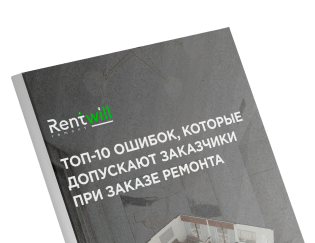
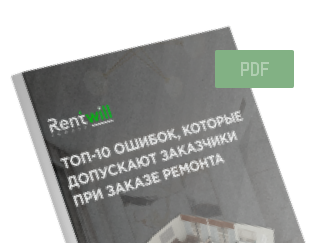
initial

diff --git a/dist/css/style.min.css b/dist/css/style.min.css
@@ -1,1 +1,1 @@
-@font-face{font-family:gothampro;font-display:swap;src:url(../fonts/gothampro-black.woff2) format("woff2"),url(../fonts/gothampro-black.woff) format("woff");font-weight:900;font-style:normal}@font-face{font-family:gothampro;font-display:swap;src:url(../fonts/gothampro-black.woff2) format("woff2"),url(../fonts/gothampro-black.woff) format("woff");font-weight:900;font-style:normal}@font-face{font-family:gothampro;font-display:swap;src:url(../fonts/gothampro-bold.woff2) format("woff2"),url(../fonts/gothampro-bold.woff) format("woff");font-weight:700;font-style:normal}@font-face{font-family:gothampro;font-display:swap;src:url(../fonts/gothampro-light.woff2) format("woff2"),url(../fonts/gothampro-light.woff) format("woff");font-weight:300;font-style:normal}@font-face{font-family:gothampro;font-display:swap;src:url(../fonts/gothampro-light.woff2) format("woff2"),url(../fonts/gothampro-light.woff) format("woff");font-weight:300;font-style:normal}@font-face{font-family:gothampro;font-display:swap;src:url(../fonts/gothampro-medium.woff2) format("woff2"),url(../fonts/gothampro-medium.woff) format("woff");font-weight:500;font-style:normal}@font-face{font-family:gothampro;font-display:swap;src:url(../fonts/gothampro-bold.woff2) format("woff2"),url(../fonts/gothampro-bold.woff) format("woff");font-weight:700;font-style:normal}@font-face{font-family:gothampro;font-display:swap;src:url(../fonts/gothampro.woff2) format("woff2"),url(../fonts/gothampro.woff) format("woff");font-weight:400;font-style:normal}@font-face{font-family:gothampro;font-display:swap;src:url(../fonts/gothampro.woff2) format("woff2"),url(../fonts/gothampro.woff) format("woff");font-weight:400;font-style:normal}@font-face{font-family:gothampro;font-display:swap;src:url(../fonts/gothampro-medium.woff2) format("woff2"),url(../fonts/gothampro-medium.woff) format("woff");font-weight:500;font-style:normal}.container{width:100%;margin-right:auto;margin-left:auto;padding-right:15px;padding-left:15px}.btn,.btn_secondary{background:-webkit-gradient(linear,left top,left bottom,from(#72ebae),to(#39d036));background:-o-linear-gradient(top,#72ebae 0,#39d036 100%);background:linear-gradient(180deg,#72ebae 0,#39d036 100%);font-weight:700;font-size:18px;line-height:17px;text-align:center;color:#fff;text-decoration:none;border-radius:70px;-webkit-box-shadow:0 4px 0 0 #0aa307;box-shadow:0 4px 0 0 #0aa307;-webkit-transition:.2s ease;-o-transition:.2s ease;transition:.2s ease;position:relative;bottom:0;display:-webkit-box;display:-ms-flexbox;display:flex;-webkit-box-align:center;-ms-flex-align:center;align-items:center;-webkit-box-pack:center;-ms-flex-pack:center;justify-content:center;width:-webkit-max-content;width:-moz-max-content;width:max-content;padding:30px 65px}.btn img,.btn_secondary img{margin-right:15px}.btn:active,.btn_secondary:active{-webkit-box-shadow:0 0 0 0 #0aa307;box-shadow:0 0 0 0 #0aa307;bottom:-4px}.btn_secondary{background:-webkit-gradient(linear,left top,left bottom,from(#656565),to(#262626));background:-o-linear-gradient(top,#656565 0,#262626 100%);background:linear-gradient(180deg,#656565 0,#262626 100%);-webkit-box-shadow:0 4px 0 0 #161616;box-shadow:0 4px 0 0 #161616}.header{position:absolute;top:0;left:0;width:100%;height:150px;z-index:50}.header__top{display:-webkit-box;display:-ms-flexbox;display:flex;-webkit-box-align:center;-ms-flex-align:center;align-items:center;-webkit-box-pack:justify;-ms-flex-pack:justify;justify-content:space-between;padding:20px 15px}.header__left{display:-webkit-box;display:-ms-flexbox;display:flex;-webkit-box-align:center;-ms-flex-align:center;align-items:center;-webkit-box-pack:start;-ms-flex-pack:start;justify-content:flex-start}.header__logo{margin-right:23px}.header__desc{font-size:16px;line-height:130%;color:#232323}.header__right{display:-webkit-box;display:-ms-flexbox;display:flex;-webkit-box-align:center;-ms-flex-align:center;align-items:center;-webkit-box-pack:end;-ms-flex-pack:end;justify-content:flex-end}.header__social:first-of-type{margin-right:23px}.header__tel{font-weight:700;font-size:20px;line-height:130%;color:#232323;margin-left:36px}.header__nav{background:#fff}.header__list{display:-webkit-box;display:-ms-flexbox;display:flex;-webkit-box-align:center;-ms-flex-align:center;align-items:center;-webkit-box-pack:justify;-ms-flex-pack:justify;justify-content:space-between;list-style-type:none;padding:20px 15px}.header__link{font-size:14px;line-height:130%;color:#747474;position:relative}.header__link:hover{color:#232323}.header__link:hover::before{opacity:1;visibility:visible;-webkit-transform:translateY(0);-ms-transform:translateY(0);transform:translateY(0)}.header__link::before{content:"";position:absolute;bottom:-4px;border-radius:6px;left:0;background:#232323;width:100%;height:1px;-webkit-transition:.2s cubic-bezier(.68,-.55,.265,1.55);-o-transition:.2s cubic-bezier(.68,-.55,.265,1.55);transition:.2s cubic-bezier(.68,-.55,.265,1.55);opacity:0;visibility:hidden;-webkit-transform:translateY(5px);-ms-transform:translateY(5px);transform:translateY(5px)}.header__link.active{color:#232323}.no-webp .intro{background:url(../img/intro-bg.png) center/cover no-repeat}.intro{min-height:822px;position:relative;color:#232323}.no-webp .intro::after{background:url(../img/clouds.png) left top/cover repeat-x}.intro::after{content:"";position:absolute;bottom:-220px;left:50%;-webkit-transform:translateX(-50%);-ms-transform:translateX(-50%);transform:translateX(-50%);width:100%;height:472px;pointer-events:none}.intro__body{width:100%;display:-webkit-box;display:-ms-flexbox;display:flex;-webkit-box-align:start;-ms-flex-align:start;align-items:flex-start;-webkit-box-pack:justify;-ms-flex-pack:justify;justify-content:space-between;padding-top:165px;min-height:822px}.intro__img{margin-right:-173px}.intro__content{z-index:2}.intro__info{-webkit-box-shadow:0 4px 4px 0 #0000001A;box-shadow:0 4px 4px 0 #0000001A;border-radius:15px;max-width:360px;width:100%;display:-webkit-box;display:-ms-flexbox;display:flex;-webkit-box-align:center;-ms-flex-align:center;align-items:center;-webkit-box-pack:start;-ms-flex-pack:start;justify-content:flex-start;padding:20px 30px;margin-bottom:40px;background:#fff}.intro__info-img{margin-right:15px}.intro__info-p{font-size:16px;line-height:130%;color:#232323}.intro__title{font-weight:700;font-size:38px;line-height:130%;margin-bottom:7px;text-transform:uppercase}.intro__desc{font-size:28px;line-height:130%;margin-bottom:23px}.intro__desc span{color:#3ad037;font-weight:500}.intro__gift{display:-webkit-box;display:-ms-flexbox;display:flex;-webkit-box-align:center;-ms-flex-align:center;align-items:center;-webkit-box-pack:start;-ms-flex-pack:start;justify-content:flex-start;margin-bottom:24px}.intro__gift-img{margin-right:11px}.intro__gift-p{font-size:20px;line-height:130%}.intro__btn{padding:20px 42px}.advantages{margin-bottom:100px}.advantages__body{display:-webkit-box;display:-ms-flexbox;display:flex;-webkit-box-align:center;-ms-flex-align:center;align-items:center;-webkit-box-pack:center;-ms-flex-pack:center;justify-content:center;-webkit-column-gap:50px;-moz-column-gap:50px;column-gap:50px}.advantages__item{height:182px;background:#fff;z-index:2;max-width:278px;-webkit-box-shadow:0 6px 8px 0 #0000001F;box-shadow:0 6px 8px 0 #0000001F;border-radius:15px;display:-webkit-box;display:-ms-flexbox;display:flex;-webkit-box-align:end;-ms-flex-align:end;align-items:flex-end;padding:23px;-webkit-box-pack:center;-ms-flex-pack:center;justify-content:center}.no-webp .advantages__item:first-of-type{background:url(../img/advantages-1.png) 0 0/cover no-repeat}.no-webp .advantages__item:nth-of-type(2){background:url(../img/advantages-2.png) 0 0/cover no-repeat}.no-webp .advantages__item:nth-of-type(3){background:url(../img/advantages-3.png) 0 0/cover no-repeat}.advantages__item p{text-align:center}.no-webp .start{background:url(../img/start.png) center/cover no-repeat}.start{padding:100px 0 78px 0;position:relative}.start__title{margin-bottom:48px;text-align:center;font-weight:700;font-size:34px;line-height:130%;color:#fff}.start__row{display:-webkit-box;display:-ms-flexbox;display:flex;-webkit-box-pack:justify;-ms-flex-pack:justify;justify-content:space-between;-webkit-box-align:center;-ms-flex-align:center;align-items:center}.start__row:not(:last-of-type){margin-bottom:57px}.start__item{max-width:325px;width:100%;padding:23px;background:rgba(26,26,26,.72);-webkit-backdrop-filter:blur(10px);backdrop-filter:blur(10px);position:relative;border-radius:2px;display:-webkit-box;display:-ms-flexbox;display:flex;-webkit-box-align:center;-ms-flex-align:center;align-items:center;-webkit-box-pack:center;-ms-flex-pack:center;justify-content:center}.start__item:nth-of-type(2) .start__item-i{top:auto;right:50%;left:auto;-webkit-transform:translate(50%,0);-ms-transform:translate(50%,0);transform:translate(50%,0);bottom:-34px}.start__item:last-of-type .start__item-i{top:50%;right:auto;left:-30px;-webkit-transform:translate(0,-50%);-ms-transform:translate(0,-50%);transform:translate(0,-50%);bottom:auto}.start__item p{text-align:center;font-size:18px;line-height:140%;color:#fff}.start__item-i{position:absolute;right:-30px;top:50%;-webkit-transform:translateY(-50%);-ms-transform:translateY(-50%);transform:translateY(-50%);background:#1d1d1d;border-radius:50%;width:52px;height:52px;display:-webkit-box;display:-ms-flexbox;display:flex;-webkit-box-align:center;-ms-flex-align:center;align-items:center;-webkit-box-pack:center;-ms-flex-pack:center;justify-content:center}.start__btn{margin-top:85px;margin-left:auto;margin-right:auto;max-width:705px;border-radius:2px}.start__img{position:absolute;bottom:0;left:50%;-webkit-transform:translateX(-50%);-ms-transform:translateX(-50%);transform:translateX(-50%)}.start__scroll{position:absolute;left:50%;-webkit-transform:translateX(-50%);-ms-transform:translateX(-50%);transform:translateX(-50%);bottom:-50px}.cert__body{display:-webkit-box;display:-ms-flexbox;display:flex;-webkit-box-pack:justify;-ms-flex-pack:justify;justify-content:space-between;-webkit-box-align:center;-ms-flex-align:center;align-items:center}.cert__content{padding:80px 0;max-width:412px;width:100%}.cert__btn{width:100%;padding:23px 54px;font-size:18px;line-height:140%}.cert__title{font-weight:700;font-size:34px;line-height:130%;margin-bottom:20px;text-transform:uppercase;color:#8e8e8e}.no-webp .works{background:url(../img/works-bg.png) center/cover no-repeat}.works{padding:100px 0}.works__title{font-weight:700;font-size:34px;line-height:130%;text-align:center;color:#232323;position:relative;isolation:isolate;margin-bottom:15px}.works__title::before{content:attr(data-zag);position:absolute;top:-30px;left:50%;-webkit-transform:translateX(-50%);-ms-transform:translateX(-50%);transform:translateX(-50%);width:100%;height:65px;font-weight:700;font-size:50px;line-height:130%;text-align:center;text-transform:uppercase;color:#e9e9e9;z-index:-1}.works__content{margin-bottom:70px;display:-webkit-box;display:-ms-flexbox;display:flex;-webkit-box-align:stretch;-ms-flex-align:stretch;align-items:stretch;-webkit-box-pack:justify;-ms-flex-pack:justify;justify-content:space-between;gap:20px}.works__item{border-radius:5px;position:relative;height:310px;isolation:isolate;display:-webkit-box;display:-ms-flexbox;display:flex;-webkit-box-orient:vertical;-webkit-box-direction:normal;-ms-flex-direction:column;flex-direction:column;-webkit-box-align:stretch;-ms-flex-align:stretch;align-items:stretch;-webkit-box-pack:end;-ms-flex-pack:end;justify-content:flex-end;width:calc(33.3333% - 10px);-webkit-box-shadow:0 4px 4px 0 #00000017;box-shadow:0 4px 4px 0 #00000017;overflow:hidden}.works__item-img{position:absolute;top:0;z-index:-1;width:100%;-o-object-fit:cover;object-fit:cover;top:0;line-height:0}.works__item-content{background:#fff;border-radius:5px 5px 0 0;padding:30px 34px}.works__item-title{font-size:16px;line-height:140%;color:#232323;margin-bottom:7px}.works__item-p{font-size:14px;line-height:140%;color:#232323}.no-webp .works__row{background:url(../img/works-row.png) center/cover no-repeat}.works__row{border-radius:10px;display:-webkit-box;display:-ms-flexbox;display:flex;-webkit-box-align:center;-ms-flex-align:center;align-items:center;-webkit-box-pack:space-evenly;-ms-flex-pack:space-evenly;justify-content:space-evenly;padding:30px 0}.works__col{display:-webkit-box;display:-ms-flexbox;display:flex;-webkit-box-orient:vertical;-webkit-box-direction:normal;-ms-flex-direction:column;flex-direction:column;-webkit-box-align:center;-ms-flex-align:center;align-items:center}.works__col img{margin-bottom:9px}.works__col p{font-size:16px;line-height:140%;text-align:center;color:#fff}.works__col:nth-of-type(1){max-width:220px}.works__col:nth-of-type(2){max-width:370px}.works__col:nth-of-type(3){max-width:220px}.cam{padding:30px}.cam__intro{display:-webkit-box;display:-ms-flexbox;display:flex;-webkit-box-align:center;-ms-flex-align:center;align-items:center;-webkit-box-pack:justify;-ms-flex-pack:justify;justify-content:space-between;margin-bottom:-50px}.cam__intro-content{max-width:510px}.cam__title{font-weight:700;font-size:34px;line-height:140%;color:#232323;margin-bottom:10px}.cam__p{font-size:20px;line-height:140%;color:#232323}.cam__row{display:-webkit-box;display:-ms-flexbox;display:flex;-webkit-box-pack:justify;-ms-flex-pack:justify;justify-content:space-between;-webkit-box-align:end;-ms-flex-align:end;align-items:flex-end;margin-bottom:50px}.cam__item{width:calc(33.333% - 15px)}.cam__item-img{width:100%;display:-webkit-box;display:-ms-flexbox;display:flex;-webkit-box-align:end;-ms-flex-align:end;align-items:flex-end;-webkit-box-pack:center;-ms-flex-pack:center;justify-content:center}.cam__item-content{background:#fff;-webkit-box-shadow:0 4px 4px rgba(0,0,0,.09);box-shadow:0 4px 4px rgba(0,0,0,.09);border-radius:5px;padding:30px 35px}.cam__item-title{font-weight:500;font-size:16px;line-height:140%;margin-bottom:7px;color:#232323}.cam__item-p{font-size:14px;line-height:140%;color:#232323}.cases{background:#f9f9f9;padding:100px 0}.cases__title{font-weight:700;font-size:34px;line-height:130%;text-align:center;color:#232323;margin-bottom:15px}.cases__row{display:-webkit-box;display:-ms-flexbox;display:flex;-webkit-box-align:stretch;-ms-flex-align:stretch;align-items:stretch;-webkit-box-pack:justify;-ms-flex-pack:justify;justify-content:space-between}.cases__row:not(:last-child){margin-bottom:20px}.cases__item{position:relative;isolation:isolate}.cases__item::before{content:"";position:absolute;bottom:0;left:0;width:100%;height:100%;background:-webkit-gradient(linear,left bottom,left top,from(rgba(58,208,55,.42)),to(rgba(58,208,55,.42)));background:-o-linear-gradient(bottom,rgba(58,208,55,.42),rgba(58,208,55,.42));background:linear-gradient(0deg,rgba(58,208,55,.42),rgba(58,208,55,.42));opacity:0;visibility:hidden;-webkit-transition:.2s ease-out;-o-transition:.2s ease-out;transition:.2s ease-out;z-index:-1}.cases__item_sm{height:243px;width:calc(33.333% - 10px)}.cases__item_bg{width:calc(50% - 10px);height:344px}.cases__item:hover::before{opacity:1;visibility:visible}.cases__item:hover .cases__item-link{opacity:1;visibility:visible}.cases__item-header{background:#232323;width:100%;min-height:64px;z-index:2;display:-webkit-box;display:-ms-flexbox;display:flex;-webkit-box-align:center;-ms-flex-align:center;align-items:center;-webkit-box-pack:start;-ms-flex-pack:start;justify-content:flex-start;padding:20px 40px}.cases__item-header p{font-size:18px;line-height:140%;color:#fff}.cases__item-img{position:absolute;top:0;left:0;width:100%;height:100%;z-index:-2}.cases__item-link{position:absolute;bottom:22px;left:34px;font-weight:700;font-size:20px;line-height:140%;color:#fff;-webkit-transition:.2s ease-out;-o-transition:.2s ease-out;transition:.2s ease-out;display:-webkit-box;display:-ms-flexbox;display:flex;-webkit-box-align:center;-ms-flex-align:center;align-items:center;-webkit-box-pack:start;-ms-flex-pack:start;justify-content:flex-start;opacity:0;visibility:hidden}.cases__item-link svg{margin-left:10px}.footer{background:#232323;padding:50px 0}.footer__body{display:-webkit-box;display:-ms-flexbox;display:flex;-webkit-box-align:center;-ms-flex-align:center;align-items:center;-webkit-box-pack:justify;-ms-flex-pack:justify;justify-content:space-between}.footer__left{display:-webkit-box;display:-ms-flexbox;display:flex;-webkit-box-align:center;-ms-flex-align:center;align-items:center;-webkit-box-pack:start;-ms-flex-pack:start;justify-content:flex-start}.footer__logo{margin-right:28px}.footer__link{font-size:16px;line-height:130%;-webkit-text-decoration-line:underline;text-decoration-line:underline;color:#fff}.footer__right{display:-webkit-box;display:-ms-flexbox;display:flex;-webkit-box-align:center;-ms-flex-align:center;align-items:center;-webkit-box-pack:end;-ms-flex-pack:end;justify-content:flex-end}.footer__social{margin-left:23px}.footer__tel{font-weight:700;font-size:20px;line-height:130%;color:#fff;margin-left:36px}*{margin:0;padding:0;-webkit-box-sizing:border-box;box-sizing:border-box;-webkit-tap-highlight-color:transparent;font-family:gothampro,sans-serif;scroll-behavior:smooth}:active,:focus{outline:0}body,html{height:100%}body{width:100%;overflow-x:hidden}.wrapper{min-height:100%;display:-webkit-box;display:-ms-flexbox;display:flex;-webkit-box-orient:vertical;-webkit-box-direction:normal;-ms-flex-direction:column;flex-direction:column}.wrapper .main{-webkit-box-flex:1;-ms-flex:1 1 auto;flex:1 1 auto}button{background:0 0;border:none;cursor:pointer}a{text-decoration:none}@media (min-width:576px){.container{max-width:540px}}@media (min-width:768px){.container{max-width:720px}}@media (min-width:992px){.container{max-width:960px}}@media (min-width:1200px){.container{max-width:1140px}}@media (min-width:1400px){.container{max-width:1320px}}.webp .intro{background:url(../img/intro-bg.webp) center/cover no-repeat}.webp .intro::after{background:url(../img/clouds.webp) left top/cover repeat-x}.webp .advantages__item:first-of-type{background:url(../img/advantages-1.webp) 0 0/cover no-repeat}.webp .advantages__item:nth-of-type(2){background:url(../img/advantages-2.webp) 0 0/cover no-repeat}.webp .advantages__item:nth-of-type(3){background:url(../img/advantages-3.webp) 0 0/cover no-repeat}.webp .start{background:url(../img/start.webp) center/cover no-repeat}.webp .works{background:url(../img/works-bg.webp) center/cover no-repeat}.webp .works__row{background:url(../img/works-row.webp) center/cover no-repeat}
+@font-face{font-family:gothampro;font-display:swap;src:url(../fonts/gothampro-black.woff2) format("woff2"),url(../fonts/gothampro-black.woff) format("woff");font-weight:900;font-style:normal}@font-face{font-family:gothampro;font-display:swap;src:url(../fonts/gothampro-black.woff2) format("woff2"),url(../fonts/gothampro-black.woff) format("woff");font-weight:900;font-style:normal}@font-face{font-family:gothampro;font-display:swap;src:url(../fonts/gothampro-bold.woff2) format("woff2"),url(../fonts/gothampro-bold.woff) format("woff");font-weight:700;font-style:normal}@font-face{font-family:gothampro;font-display:swap;src:url(../fonts/gothampro-light.woff2) format("woff2"),url(../fonts/gothampro-light.woff) format("woff");font-weight:300;font-style:normal}@font-face{font-family:gothampro;font-display:swap;src:url(../fonts/gothampro-light.woff2) format("woff2"),url(../fonts/gothampro-light.woff) format("woff");font-weight:300;font-style:normal}@font-face{font-family:gothampro;font-display:swap;src:url(../fonts/gothampro-medium.woff2) format("woff2"),url(../fonts/gothampro-medium.woff) format("woff");font-weight:500;font-style:normal}@font-face{font-family:gothampro;font-display:swap;src:url(../fonts/gothampro-bold.woff2) format("woff2"),url(../fonts/gothampro-bold.woff) format("woff");font-weight:700;font-style:normal}@font-face{font-family:gothampro;font-display:swap;src:url(../fonts/gothampro.woff2) format("woff2"),url(../fonts/gothampro.woff) format("woff");font-weight:400;font-style:normal}@font-face{font-family:gothampro;font-display:swap;src:url(../fonts/gothampro.woff2) format("woff2"),url(../fonts/gothampro.woff) format("woff");font-weight:400;font-style:normal}@font-face{font-family:gothampro;font-display:swap;src:url(../fonts/gothampro-medium.woff2) format("woff2"),url(../fonts/gothampro-medium.woff) format("woff");font-weight:500;font-style:normal}.container{width:100%;margin-right:auto;margin-left:auto;padding-right:15px;padding-left:15px}.btn,.btn_secondary{background:-webkit-gradient(linear,left top,left bottom,from(#72ebae),to(#39d036));background:-o-linear-gradient(top,#72ebae 0,#39d036 100%);background:linear-gradient(180deg,#72ebae 0,#39d036 100%);font-weight:700;font-size:18px;line-height:17px;text-align:center;color:#fff;text-decoration:none;border-radius:70px;-webkit-box-shadow:0 4px 0 0 #0aa307;box-shadow:0 4px 0 0 #0aa307;-webkit-transition:.2s ease;-o-transition:.2s ease;transition:.2s ease;position:relative;bottom:0;display:-webkit-box;display:-ms-flexbox;display:flex;-webkit-box-align:center;-ms-flex-align:center;align-items:center;-webkit-box-pack:center;-ms-flex-pack:center;justify-content:center;width:-webkit-max-content;width:-moz-max-content;width:max-content;padding:30px 65px}.btn img,.btn_secondary img{margin-right:15px}.btn:active,.btn_secondary:active{-webkit-box-shadow:0 0 0 0 #0aa307;box-shadow:0 0 0 0 #0aa307;bottom:-4px}.btn_secondary{background:-webkit-gradient(linear,left top,left bottom,from(#656565),to(#262626));background:-o-linear-gradient(top,#656565 0,#262626 100%);background:linear-gradient(180deg,#656565 0,#262626 100%);-webkit-box-shadow:0 4px 0 0 #161616;box-shadow:0 4px 0 0 #161616}.header{position:absolute;top:0;left:0;width:100%;height:150px;z-index:50}.header__top{display:-webkit-box;display:-ms-flexbox;display:flex;-webkit-box-align:center;-ms-flex-align:center;align-items:center;-webkit-box-pack:justify;-ms-flex-pack:justify;justify-content:space-between;padding:20px 15px}.header__left{display:-webkit-box;display:-ms-flexbox;display:flex;-webkit-box-align:center;-ms-flex-align:center;align-items:center;-webkit-box-pack:start;-ms-flex-pack:start;justify-content:flex-start}.header__logo{margin-right:23px}.header__desc{font-size:16px;line-height:130%;color:#232323}.header__right{display:-webkit-box;display:-ms-flexbox;display:flex;-webkit-box-align:center;-ms-flex-align:center;align-items:center;-webkit-box-pack:end;-ms-flex-pack:end;justify-content:flex-end}.header__social:first-of-type{margin-right:23px}.header__tel{font-weight:700;font-size:20px;line-height:130%;color:#232323;margin-left:36px}.header__nav{background:#fff}.header__list{display:-webkit-box;display:-ms-flexbox;display:flex;-webkit-box-align:center;-ms-flex-align:center;align-items:center;-webkit-box-pack:justify;-ms-flex-pack:justify;justify-content:space-between;list-style-type:none;padding:20px 15px}.header__link{font-size:14px;line-height:130%;color:#747474;position:relative}.header__link:hover{color:#232323}.header__link:hover::before{opacity:1;visibility:visible;-webkit-transform:translateY(0);-ms-transform:translateY(0);transform:translateY(0)}.header__link::before{content:"";position:absolute;bottom:-4px;border-radius:6px;left:0;background:#232323;width:100%;height:1px;-webkit-transition:.2s cubic-bezier(.68,-.55,.265,1.55);-o-transition:.2s cubic-bezier(.68,-.55,.265,1.55);transition:.2s cubic-bezier(.68,-.55,.265,1.55);opacity:0;visibility:hidden;-webkit-transform:translateY(5px);-ms-transform:translateY(5px);transform:translateY(5px)}.header__link.active{color:#232323}.no-webp .intro{background:url(../img/intro-bg.png) center/cover no-repeat}.intro{min-height:822px;position:relative;color:#232323}.no-webp .intro::after{background:url(../img/clouds.png) left top/cover repeat-x}.intro::after{content:"";position:absolute;bottom:-220px;left:50%;-webkit-transform:translateX(-50%);-ms-transform:translateX(-50%);transform:translateX(-50%);width:100%;height:472px;pointer-events:none}.intro__body{width:100%;display:-webkit-box;display:-ms-flexbox;display:flex;-webkit-box-align:start;-ms-flex-align:start;align-items:flex-start;-webkit-box-pack:justify;-ms-flex-pack:justify;justify-content:space-between;padding-top:165px;min-height:822px}.intro__img{margin-right:-173px}.intro__content{z-index:2}.intro__info{-webkit-box-shadow:0 4px 4px 0 #0000001A;box-shadow:0 4px 4px 0 #0000001A;border-radius:15px;max-width:360px;width:100%;display:-webkit-box;display:-ms-flexbox;display:flex;-webkit-box-align:center;-ms-flex-align:center;align-items:center;-webkit-box-pack:start;-ms-flex-pack:start;justify-content:flex-start;padding:20px 30px;margin-bottom:40px;background:#fff}.intro__info-img{margin-right:15px}.intro__info-p{font-size:16px;line-height:130%;color:#232323}.intro__title{font-weight:700;font-size:38px;line-height:130%;margin-bottom:7px;text-transform:uppercase}.intro__desc{font-size:28px;line-height:130%;margin-bottom:23px}.intro__desc span{color:#3ad037;font-weight:500}.intro__gift{display:-webkit-box;display:-ms-flexbox;display:flex;-webkit-box-align:center;-ms-flex-align:center;align-items:center;-webkit-box-pack:start;-ms-flex-pack:start;justify-content:flex-start;margin-bottom:24px}.intro__gift-img{margin-right:11px}.intro__gift-p{font-size:20px;line-height:130%}.intro__btn{padding:20px 42px}.advantages{margin-bottom:100px}.advantages__body{display:-webkit-box;display:-ms-flexbox;display:flex;-webkit-box-align:center;-ms-flex-align:center;align-items:center;-webkit-box-pack:center;-ms-flex-pack:center;justify-content:center;-webkit-column-gap:50px;-moz-column-gap:50px;column-gap:50px}.advantages__item{height:182px;background:#fff;z-index:2;max-width:278px;-webkit-box-shadow:0 6px 8px 0 #0000001F;box-shadow:0 6px 8px 0 #0000001F;border-radius:15px;display:-webkit-box;display:-ms-flexbox;display:flex;-webkit-box-align:end;-ms-flex-align:end;align-items:flex-end;padding:23px;-webkit-box-pack:center;-ms-flex-pack:center;justify-content:center}.no-webp .advantages__item:first-of-type{background:url(../img/advantages-1.png) 0 0/cover no-repeat}.no-webp .advantages__item:nth-of-type(2){background:url(../img/advantages-2.png) 0 0/cover no-repeat}.no-webp .advantages__item:nth-of-type(3){background:url(../img/advantages-3.png) 0 0/cover no-repeat}.advantages__item p{text-align:center}.no-webp .start{background:url(../img/start.png) center/cover no-repeat}.start{padding:100px 0 78px 0;position:relative}.start__title{margin-bottom:48px;text-align:center;font-weight:700;font-size:34px;line-height:130%;color:#fff}.start__row{display:-webkit-box;display:-ms-flexbox;display:flex;-webkit-box-pack:justify;-ms-flex-pack:justify;justify-content:space-between;-webkit-box-align:center;-ms-flex-align:center;align-items:center}.start__row:not(:last-of-type){margin-bottom:57px}.start__item{max-width:325px;width:100%;padding:23px;background:rgba(26,26,26,.72);-webkit-backdrop-filter:blur(10px);backdrop-filter:blur(10px);position:relative;border-radius:2px;display:-webkit-box;display:-ms-flexbox;display:flex;-webkit-box-align:center;-ms-flex-align:center;align-items:center;-webkit-box-pack:center;-ms-flex-pack:center;justify-content:center}.start__item:nth-of-type(2) .start__item-i{top:auto;right:50%;left:auto;-webkit-transform:translate(50%,0);-ms-transform:translate(50%,0);transform:translate(50%,0);bottom:-34px}.start__item:last-of-type .start__item-i{top:50%;right:auto;left:-30px;-webkit-transform:translate(0,-50%);-ms-transform:translate(0,-50%);transform:translate(0,-50%);bottom:auto}.start__item p{text-align:center;font-size:18px;line-height:140%;color:#fff}.start__item-i{position:absolute;right:-30px;top:50%;-webkit-transform:translateY(-50%);-ms-transform:translateY(-50%);transform:translateY(-50%);background:#1d1d1d;border-radius:50%;width:52px;height:52px;display:-webkit-box;display:-ms-flexbox;display:flex;-webkit-box-align:center;-ms-flex-align:center;align-items:center;-webkit-box-pack:center;-ms-flex-pack:center;justify-content:center}.start__btn{margin-top:85px;margin-left:auto;margin-right:auto;max-width:705px;border-radius:2px}.start__img{position:absolute;bottom:0;left:50%;-webkit-transform:translateX(-50%);-ms-transform:translateX(-50%);transform:translateX(-50%)}.start__scroll{position:absolute;left:50%;-webkit-transform:translateX(-50%);-ms-transform:translateX(-50%);transform:translateX(-50%);bottom:-50px}.cert__body{display:-webkit-box;display:-ms-flexbox;display:flex;-webkit-box-pack:justify;-ms-flex-pack:justify;justify-content:space-between;-webkit-box-align:center;-ms-flex-align:center;align-items:center}.cert__content{padding:80px 0;max-width:412px;width:100%}.cert__btn{width:100%;padding:23px 54px;font-size:18px;line-height:140%}.cert__title{font-weight:700;font-size:34px;line-height:130%;margin-bottom:20px;text-transform:uppercase;color:#8e8e8e}.no-webp .works{background:url(../img/works-bg.png) center/cover no-repeat}.works{padding:100px 0}.works__title{font-weight:700;font-size:34px;line-height:130%;text-align:center;color:#232323;position:relative;isolation:isolate;margin-bottom:15px}.works__title::before{content:attr(data-zag);position:absolute;top:-30px;left:50%;-webkit-transform:translateX(-50%);-ms-transform:translateX(-50%);transform:translateX(-50%);width:100%;height:65px;font-weight:700;font-size:50px;line-height:130%;text-align:center;text-transform:uppercase;color:#e9e9e9;z-index:-1}.works__content{margin-bottom:70px;display:-webkit-box;display:-ms-flexbox;display:flex;-webkit-box-align:stretch;-ms-flex-align:stretch;align-items:stretch;-webkit-box-pack:justify;-ms-flex-pack:justify;justify-content:space-between;gap:20px}.works__item{border-radius:5px;position:relative;height:310px;isolation:isolate;display:-webkit-box;display:-ms-flexbox;display:flex;-webkit-box-orient:vertical;-webkit-box-direction:normal;-ms-flex-direction:column;flex-direction:column;-webkit-box-align:stretch;-ms-flex-align:stretch;align-items:stretch;-webkit-box-pack:end;-ms-flex-pack:end;justify-content:flex-end;width:calc(33.3333% - 10px);-webkit-box-shadow:0 4px 4px 0 #00000017;box-shadow:0 4px 4px 0 #00000017;overflow:hidden}.works__item-img{position:absolute;top:0;z-index:-1;width:100%;-o-object-fit:cover;object-fit:cover;top:0;line-height:0}.works__item-content{background:#fff;border-radius:5px 5px 0 0;padding:30px 34px}.works__item-title{font-size:16px;line-height:140%;color:#232323;margin-bottom:7px}.works__item-p{font-size:14px;line-height:140%;color:#232323}.no-webp .works__row{background:url(../img/works-row.png) center/cover no-repeat}.works__row{border-radius:10px;display:-webkit-box;display:-ms-flexbox;display:flex;-webkit-box-align:center;-ms-flex-align:center;align-items:center;-webkit-box-pack:space-evenly;-ms-flex-pack:space-evenly;justify-content:space-evenly;padding:30px 0}.works__col{display:-webkit-box;display:-ms-flexbox;display:flex;-webkit-box-orient:vertical;-webkit-box-direction:normal;-ms-flex-direction:column;flex-direction:column;-webkit-box-align:center;-ms-flex-align:center;align-items:center}.works__col img{margin-bottom:9px}.works__col p{font-size:16px;line-height:140%;text-align:center;color:#fff}.works__col:nth-of-type(1){max-width:220px}.works__col:nth-of-type(2){max-width:370px}.works__col:nth-of-type(3){max-width:220px}.cam{padding:30px}.cam__intro{display:-webkit-box;display:-ms-flexbox;display:flex;-webkit-box-align:center;-ms-flex-align:center;align-items:center;-webkit-box-pack:justify;-ms-flex-pack:justify;justify-content:space-between;margin-bottom:-50px}.cam__intro-content{max-width:510px}.cam__title{font-weight:700;font-size:34px;line-height:140%;color:#232323;margin-bottom:10px}.cam__p{font-size:20px;line-height:140%;color:#232323}.cam__row{display:-webkit-box;display:-ms-flexbox;display:flex;-webkit-box-pack:justify;-ms-flex-pack:justify;justify-content:space-between;-webkit-box-align:end;-ms-flex-align:end;align-items:flex-end;margin-bottom:50px}.cam__item{width:calc(33.333% - 15px)}.cam__item-img{width:100%;display:-webkit-box;display:-ms-flexbox;display:flex;-webkit-box-align:end;-ms-flex-align:end;align-items:flex-end;-webkit-box-pack:center;-ms-flex-pack:center;justify-content:center}.cam__item-content{background:#fff;-webkit-box-shadow:0 4px 4px rgba(0,0,0,.09);box-shadow:0 4px 4px rgba(0,0,0,.09);border-radius:5px;padding:30px 35px}.cam__item-title{font-weight:500;font-size:16px;line-height:140%;margin-bottom:7px;color:#232323}.cam__item-p{font-size:14px;line-height:140%;color:#232323}.cam__form{background:#fff;-webkit-box-shadow:0 2px 10px rgba(0,0,0,.12);box-shadow:0 2px 10px rgba(0,0,0,.12);border-radius:10px;margin-bottom:-110px;position:relative;display:-webkit-box;display:-ms-flexbox;display:flex;-webkit-box-align:end;-ms-flex-align:end;align-items:flex-end;-webkit-box-pack:justify;-ms-flex-pack:justify;justify-content:space-between;padding:0 120px 0 80px}.cam__form-content{max-width:493px;padding:40px 0}.cam__form-img{line-height:0}.cam__form-title{font-size:22px;line-height:140%;color:#232323;font-weight:500;margin-bottom:20px}.cam__form-title span{color:#3ad037}.cases{background:#f9f9f9;padding:100px 0}.cases__title{font-weight:700;font-size:34px;line-height:130%;text-align:center;color:#232323;margin-bottom:15px}.cases__row{display:-webkit-box;display:-ms-flexbox;display:flex;-webkit-box-align:stretch;-ms-flex-align:stretch;align-items:stretch;-webkit-box-pack:justify;-ms-flex-pack:justify;justify-content:space-between}.cases__row:not(:last-child){margin-bottom:20px}.cases__item{position:relative;isolation:isolate}.cases__item::before{content:"";position:absolute;bottom:0;left:0;width:100%;height:100%;background:-webkit-gradient(linear,left bottom,left top,from(rgba(58,208,55,.42)),to(rgba(58,208,55,.42)));background:-o-linear-gradient(bottom,rgba(58,208,55,.42),rgba(58,208,55,.42));background:linear-gradient(0deg,rgba(58,208,55,.42),rgba(58,208,55,.42));opacity:0;visibility:hidden;-webkit-transition:.2s ease-out;-o-transition:.2s ease-out;transition:.2s ease-out;z-index:-1}.cases__item_sm{height:243px;width:calc(33.333% - 10px)}.cases__item_bg{width:calc(50% - 10px);height:344px}.cases__item:hover::before{opacity:1;visibility:visible}.cases__item:hover .cases__item-link{opacity:1;visibility:visible}.cases__item-header{background:#232323;width:100%;min-height:64px;z-index:2;display:-webkit-box;display:-ms-flexbox;display:flex;-webkit-box-align:center;-ms-flex-align:center;align-items:center;-webkit-box-pack:start;-ms-flex-pack:start;justify-content:flex-start;padding:20px 40px}.cases__item-header p{font-size:18px;line-height:140%;color:#fff}.cases__item-img{position:absolute;top:0;left:0;width:100%;height:100%;z-index:-2}.cases__item-link{position:absolute;bottom:22px;left:34px;font-weight:700;font-size:20px;line-height:140%;color:#fff;-webkit-transition:.2s ease-out;-o-transition:.2s ease-out;transition:.2s ease-out;display:-webkit-box;display:-ms-flexbox;display:flex;-webkit-box-align:center;-ms-flex-align:center;align-items:center;-webkit-box-pack:start;-ms-flex-pack:start;justify-content:flex-start;opacity:0;visibility:hidden}.cases__item-link svg{margin-left:10px}.footer{background:#232323;padding:50px 0}.footer__body{display:-webkit-box;display:-ms-flexbox;display:flex;-webkit-box-align:center;-ms-flex-align:center;align-items:center;-webkit-box-pack:justify;-ms-flex-pack:justify;justify-content:space-between}.footer__left{display:-webkit-box;display:-ms-flexbox;display:flex;-webkit-box-align:center;-ms-flex-align:center;align-items:center;-webkit-box-pack:start;-ms-flex-pack:start;justify-content:flex-start}.footer__logo{margin-right:28px}.footer__link{font-size:16px;line-height:130%;-webkit-text-decoration-line:underline;text-decoration-line:underline;color:#fff}.footer__right{display:-webkit-box;display:-ms-flexbox;display:flex;-webkit-box-align:center;-ms-flex-align:center;align-items:center;-webkit-box-pack:end;-ms-flex-pack:end;justify-content:flex-end}.footer__social{margin-left:23px}.footer__tel{font-weight:700;font-size:20px;line-height:130%;color:#fff;margin-left:36px}*{margin:0;padding:0;-webkit-box-sizing:border-box;box-sizing:border-box;-webkit-tap-highlight-color:transparent;font-family:gothampro,sans-serif;scroll-behavior:smooth}:active,:focus{outline:0}body,html{height:100%}body{width:100%;overflow-x:hidden}.wrapper{min-height:100%;display:-webkit-box;display:-ms-flexbox;display:flex;-webkit-box-orient:vertical;-webkit-box-direction:normal;-ms-flex-direction:column;flex-direction:column}.wrapper .main{-webkit-box-flex:1;-ms-flex:1 1 auto;flex:1 1 auto}button{background:0 0;border:none;cursor:pointer}a{text-decoration:none}@media (min-width:576px){.container{max-width:540px}}@media (min-width:768px){.container{max-width:720px}}@media (min-width:992px){.container{max-width:960px}}@media (min-width:1200px){.container{max-width:1140px}}@media (min-width:1400px){.container{max-width:1320px}}.webp .intro{background:url(../img/intro-bg.webp) center/cover no-repeat}.webp .intro::after{background:url(../img/clouds.webp) left top/cover repeat-x}.webp .advantages__item:first-of-type{background:url(../img/advantages-1.webp) 0 0/cover no-repeat}.webp .advantages__item:nth-of-type(2){background:url(../img/advantages-2.webp) 0 0/cover no-repeat}.webp .advantages__item:nth-of-type(3){background:url(../img/advantages-3.webp) 0 0/cover no-repeat}.webp .start{background:url(../img/start.webp) center/cover no-repeat}.webp .works{background:url(../img/works-bg.webp) center/cover no-repeat}.webp .works__row{background:url(../img/works-row.webp) center/cover no-repeat}

diff --git a/dist/index.html b/dist/index.html
@@ -4,7 +4,7 @@
     <meta charset="UTF-8">
     <meta http-equiv="X-UA-Compatible" content="IE=edge">
     <meta name="viewport" content="width=device-width, initial-scale=1.0">
-    <link rel="stylesheet" href="css/style.min.css?_v=20220201143604">
+    <link rel="stylesheet" href="css/style.min.css?_v=20220201144141">
     <title>Document</title>
   </head>
   <body> 
@@ -255,7 +255,12 @@
                               </div>
                             </div>
                           </div>
-                          <div class="cam__form"> </div>
+                          <div class="cam__form"> 
+                            <div class="cam__form-content"> 
+                              <p class="cam__form-title">Скачайте <span>топ-10 ошибок</span>, которые допускают заказчики при заказе ремонта </p><a class="btn cam__form-btn" href="#!">Скачать PDF</a>
+                            </div>
+                            <div class="cam__form-img"> <picture><source srcset="img/cam-form.webp" type="image/webp"><img src="img/cam-form.png" alt="" draggable="false"></picture></div>
+                          </div>
                         </div>
                       </div>
                       <div class="cases"> 
@@ -320,6 +325,6 @@
               </div>
             </footer>
     </div>
-    <script src="js/app.min.js?_v=20220201143604"> </script>
+    <script src="js/app.min.js?_v=20220201144141"> </script>
   </body>
 </html>

diff --git a/dist/css/style.css b/dist/css/style.css
@@ -850,6 +850,46 @@
   color: #232323;
 }
 
+.cam__form {
+  background: #FFFFFF;
+  -webkit-box-shadow: 0px 2px 10px rgba(0, 0, 0, 0.12);
+          box-shadow: 0px 2px 10px rgba(0, 0, 0, 0.12);
+  border-radius: 10px;
+  margin-bottom: -110px;
+  position: relative;
+  display: -webkit-box;
+  display: -ms-flexbox;
+  display: flex;
+  -webkit-box-align: end;
+      -ms-flex-align: end;
+          align-items: flex-end;
+  -webkit-box-pack: justify;
+      -ms-flex-pack: justify;
+          justify-content: space-between;
+  padding: 0 120px 0 80px;
+}
+
+.cam__form-content {
+  max-width: 493px;
+  padding: 40px 0;
+}
+
+.cam__form-img {
+  line-height: 0;
+}
+
+.cam__form-title {
+  font-size: 22px;
+  line-height: 140%;
+  color: #232323;
+  font-weight: 500;
+  margin-bottom: 20px;
+}
+
+.cam__form-title span {
+  color: #3AD037;
+}
+
 .cases {
   background: #F9F9F9;
   padding: 100px 0;

diff --git a/src/scss/layout/_cam.scss b/src/scss/layout/_cam.scss
@@ -54,4 +54,32 @@
             color: #232323;            
         }
     }
+    &__form{
+        background: #FFFFFF;
+        box-shadow: 0px 2px 10px rgba(0, 0, 0, 0.12);
+        border-radius: 10px;
+        margin-bottom: -110px;
+        position: relative;
+        display: flex;
+        align-items: flex-end;
+        justify-content: space-between;
+        padding: 0 120px 0 80px;
+        &-content{
+            max-width: 493px;
+            padding: 40px 0;
+        }
+        &-img{
+            line-height: 0;
+        }
+        &-title{
+            font-size: 22px;
+            line-height: 140%;
+            color: #232323;          
+            font-weight: 500; 
+            margin-bottom: 20px;
+            span{
+                color: #3AD037;
+            } 
+        }
+    }
 }
